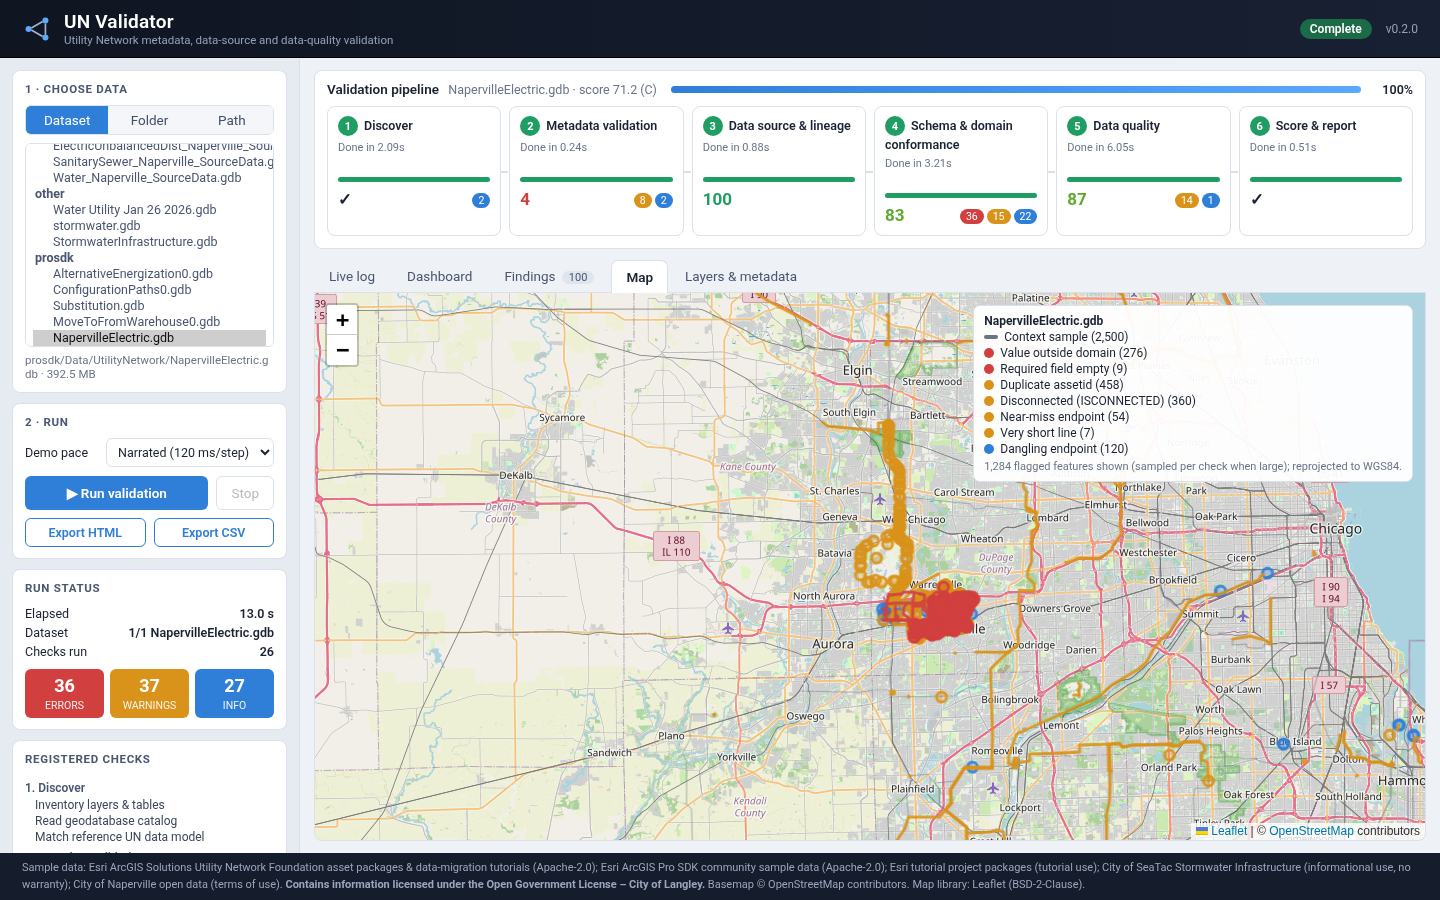
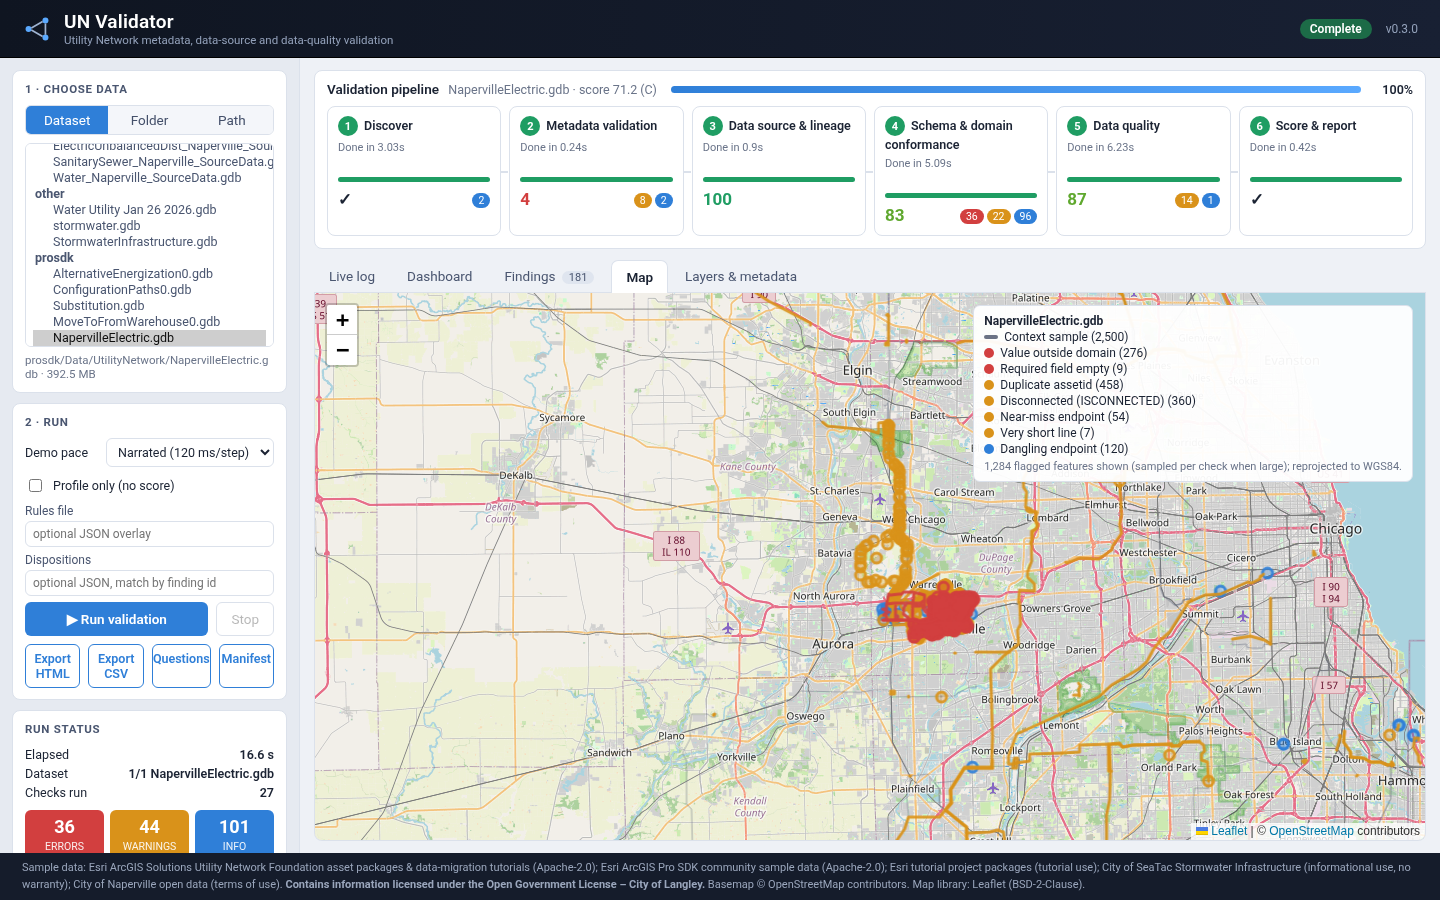
Document version 0.3.0 and refresh the dashboard screenshots.
The README and changelog cover the manifest, rules file, questions export
and asset-type baseline. The baseline credit stays with the Apache-2.0
Foundation models.

Changed region(s): [[0.0, 0.5289, 0.2188, 0.9644]]

diff --git a/README.md b/README.md
@@ -22,7 +22,7 @@ The working title is set in one place: `APP_TITLE` in `app/config.py`. You can a
 | 3 | **Data source & lineage** | Horizontal and vertical CRS consistency, mixed CRS, Z values without a vertical CRS, and datum differences against the reference model. Covers editor tracking and edit-date span. For migration sources, it measures **field-mapping coverage** using Esri data-loading `*MatchTable*.csv` and `DataMapping.xlsx` files. |
 | 4 | **Schema & domain conformance** | Domain integrity, then coded and range values checked against their domains, subtype by subtype. Compares each class with its counterpart in the matched Foundation asset package: missing required or optional fields, extra fields, type mismatches and domain differences. |
 | 5 | **Data quality** | Nulls in required fields. Duplicate GlobalIDs (within and across classes) and duplicate asset or facility IDs. Null, empty, invalid, zero-length and zero-area geometry, plus stacked points. Line dangles and near-miss endpoints (STRtree, tolerance-aware). Z/M consistency, date sanity, `ISCONNECTED` status. UN system-table sanity: associations (orphans), subnetworks (dirty), rules, dirty areas and error tables. Asset-package `C_Associations` / `C_SubnetworkControllers` are checked too. |
-| 6 | **Score & report** | Weighted stage scores, an overall 0-100 score and grade, a map preview and the HTML/CSV export. |
+| 6 | **Score & report** | Weighted stage scores, an overall 0-100 score and grade, a map preview and the HTML/CSV/JSON export. Each finding has a stable id. The run writes a manifest and a signature that stays the same when the same data is validated again. |
 
 The UI shows the pipeline cards lighting up, with a progress bar and the current check for each stage. Below that are a
 live activity log and a live findings feed. When the run finishes you get a **dashboard** (overall and per-stage
@@ -31,6 +31,30 @@ a **Leaflet map** of flagged features (reprojected to WGS84 and sampled when lar
 **Export HTML** and **Export CSV** download the report.
 
 The *Demo pace* option slows each step down so the pipeline can be followed during a demo.
+**Profile only** runs discovery and a field profile (types, null rates, distinct values, key candidates) and does not score the dataset.
+A **rules file** and a **dispositions file** can be set in the same panel, or with `UNV_RULES` and `UNV_DISPOSITIONS`.
+
+---
+
+## Trust: findings, rules, manifest
+
+Every finding has a stable id (from the check, the layer, the rule and the affected record ids), a classification, a severity, a confidence, the evidence, the method, a capped list of record ids plus the full count, a recommended action, and a disposition that starts at `OPEN`. Scores and grades are unchanged by this extra detail. `findings.csv` and `findings.json` both include it. Cells that a spreadsheet would treat as a formula are still prefixed so they cannot run.
+
+A dispositions file (`examples/dispositions.example.json`) marks ids `CLOSED` or `ACCEPTED` on a later run. Those findings drop out of the open-questions list. The signature ignores disposition, so accepting a finding does not look like the data changed.
+
+`python run.py validate DATA.gdb --rules rules.json` deep-merges a JSON overlay onto the built-in thresholds, required fields, domain extras, stage weights and severities. Comments (`//` and `/* */`) are allowed. Unknown keys are an error, with the reason printed. See `examples/rules.example.json`. The same file can be chosen in the dashboard. Its hash is stored in the manifest.
+
+Each run writes `reports/<job>/manifest.json`: run id, tool version, time, input sizes and SHA-256, the effective rules and their hash, feature counts, finding counts, and a **signature**. The signature is a hash of the scores, layer counts and findings only. It does not include timestamps or file paths, so a repeat of the same inputs and rules reproduces it.
+
+```bat
+python run.py verify reports\<job>\manifest.json
+```
+
+That replays the recorded inputs and prints `MATCH` or `MISMATCH`.
+
+Asset groups and asset types are compared with a baseline derived from the Esri Utility Network Foundation models (electric, water, gas, sewer, stormwater, communications, district energy). The baseline is `app/data/foundation_assets.csv` and `.json`, under the Apache-2.0 licence of those models (see DATA_SOURCES.md). Exact names match at confidence 1. Close names are proposed with a confidence. Unmapped values and missing groups are findings, and `asset_mapping.csv` lists every distinct value. This check does not change the score.
+
+Profile-only mode and a full run both write open questions to `questions.csv` and `questions.xlsx`: the question, why it matters, the role that should answer it, the priority, the linked finding ids, and status `OPEN`.
 
 ---
 
@@ -90,6 +114,8 @@ reach the port could then read the data folders.
 | Concurrent runs (others queue) | | `UNV_MAX_CONCURRENT_JOBS` | `1` |
 | Read cache per dataset | | `UNV_READ_CACHE_MB` | `1500` |
 | Log level | `--log-level` | `UNV_LOG_LEVEL` | `INFO` |
+| Rules overlay | `validate --rules FILE` | `UNV_RULES` | built-in defaults |
+| Finding dispositions | `validate --dispositions FILE` | `UNV_DISPOSITIONS` | every finding `OPEN` |
 
 ---
 
@@ -99,7 +125,9 @@ reach the port could then read the data folders.
 python run.py                      &REM web UI on http://127.0.0.1:8765
 python run.py serve --port 9000    &REM another port   (or: set UNV_PORT=9000)
 python run.py validate "D:\data\MyNetwork.gdb"           &REM headless run, prints scores
-python run.py validate D:\data\folder_of_gdbs --pace-ms 0
+python run.py validate D:\data\folder_of_gdbs --pace-ms 0 --rules rules.json
+python run.py profile D:\data\MyNetwork.gdb             &REM fields and null rates, no score
+python run.py verify reports\<job>\manifest.json        &REM MATCH or MISMATCH
 python run.py clear-cache                                &REM delete cached compatibility copies
 ```
 
@@ -109,7 +137,7 @@ In the UI, pick a **Dataset**, a **Folder** (every gdb/gpkg inside it runs in se
 data folder. Then click **Run validation**. **Stop** ends the run after the current step and still produces a partial
 report. Runs started while another is in progress wait in a queue.
 
-Reports are written to `reports\<job id>\report.html`, `findings.csv` and `result.json`.
+Reports are written to `reports\<job id>\`: `report.html`, `findings.csv`, `findings.json`, `result.json`, `questions.csv`, `questions.xlsx`, `manifest.json` and, when asset types were compared, `asset_mapping.csv`.
 
 The validator never modifies the source data. Some geodatabases written by recent ArcGIS Pro releases need a
 compatibility view (see *GDAL note* below). That view is built in `.cache\`, and the cache can be deleted at any time.
@@ -218,7 +246,7 @@ finding. This GDAL issue is worth reporting upstream.
 ## Project layout
 
 ```
-run.py                     CLI: serve | validate | clear-cache (+ --data-root, --allow-any-path, ...)
+run.py                     CLI: serve | validate | profile | verify | clear-cache
 app/config.py              title, paths, tolerances, weights, footer (env / CLI overridable)
 app/log.py                 logging setup
 app/server.py              FastAPI: /api/datasets, /api/run, /api/jobs/{id}/events (SSE), result, exports
@@ -235,7 +263,14 @@ app/engine/catalog.py      GDB_Items definitions, domains and metadata XML (safe
 app/engine/fgdb_compat.py  GDAL compatibility copy for Pro-written FGDBs
 app/engine/targets.py      Foundation asset-package reference models and matching
 app/engine/checks/         built-in checks per stage (quality.py + network.py for stage 5)
-app/engine/report.py       HTML / CSV / JSON report writer
+app/engine/rules.py        built-in rules, JSON overlay, dispositions
+app/engine/manifest.py       run manifest and the deterministic signature
+app/engine/questions.py      open questions (CSV and XLSX)
+app/engine/profile.py        field profile used by profile-only mode
+app/engine/assets.py         Foundation asset-group / asset-type baseline and matching
+app/data/                    derived Foundation asset-type baseline (Apache-2.0)
+examples/                    commented rules and dispositions files
+app/engine/report.py         HTML / CSV / JSON / questions / manifest writer
 app/engine/core.py         compatibility imports for plugins (check, Job, run_job, ...)
 app/static/                single-page UI (vanilla JS, Leaflet 1.9.4 vendored with its licence)
 plugins/                   your checks (ArcPy hook example included)

diff --git a/CHANGELOG.md b/CHANGELOG.md
@@ -1,0 +1,13 @@
+# Changelog
+
+## 0.3.0
+
+- Each finding now has a stable id, classification, confidence, evidence, method, affected-record ids (capped, with a count), a recommended action and a disposition (`OPEN` until a dispositions file says otherwise). Scores and grades are computed the same way as in 0.2.0.
+- A run writes a manifest (inputs with SHA-256, effective rules and their hash, counts) and a signature that depends only on the scores, layer counts and findings. `python run.py verify MANIFEST` replays the run and reports MATCH or MISMATCH.
+- A JSON rules file, selected with `--rules`, `UNV_RULES` or the dashboard, deep-merges over the built-in thresholds, required fields, extra domain codes, weights and severities. Unknown keys are rejected.
+- Asset groups and asset types are compared with a baseline derived from the Esri Utility Network Foundation models. Proposed matches, unmapped values and missing groups are findings plus `asset_mapping.csv`. This does not change the score.
+- `python run.py profile` (and **Profile only** in the dashboard) reports fields, types, null rates, distinct values and key candidates without a score. Open questions are exported as CSV and XLSX.
+
+## 0.2.0
+
+- First public release. Six-stage validation, browser dashboard, HTML/CSV/JSON reports, and tests.

diff --git a/DATA_SOURCES.md b/DATA_SOURCES.md
@@ -26,3 +26,7 @@ repository**; download them from the original sources if you want to reproduce t
 **Attribution:** Contains information licensed under the Open Government License – City of Langley.
 
 Map tiles in the UI: © OpenStreetMap contributors (https://www.openstreetmap.org/copyright).
+
+## Derived baseline shipped with this repository
+
+`app/data/foundation_assets.csv` and `app/data/foundation_assets.json` list asset group and asset type names and codes extracted from the public Utility Network Foundation asset packages in the table above (electric, water, gas, sewer, stormwater, communications and district energy). They are not the source geodatabases. Those packages are Apache-2.0, copyright Esri. This table is distributed under the same licence, with this credit: *Copyright Esri. Derived from the ArcGIS Solutions Utility Network Foundation asset packages, licensed under Apache-2.0.*
